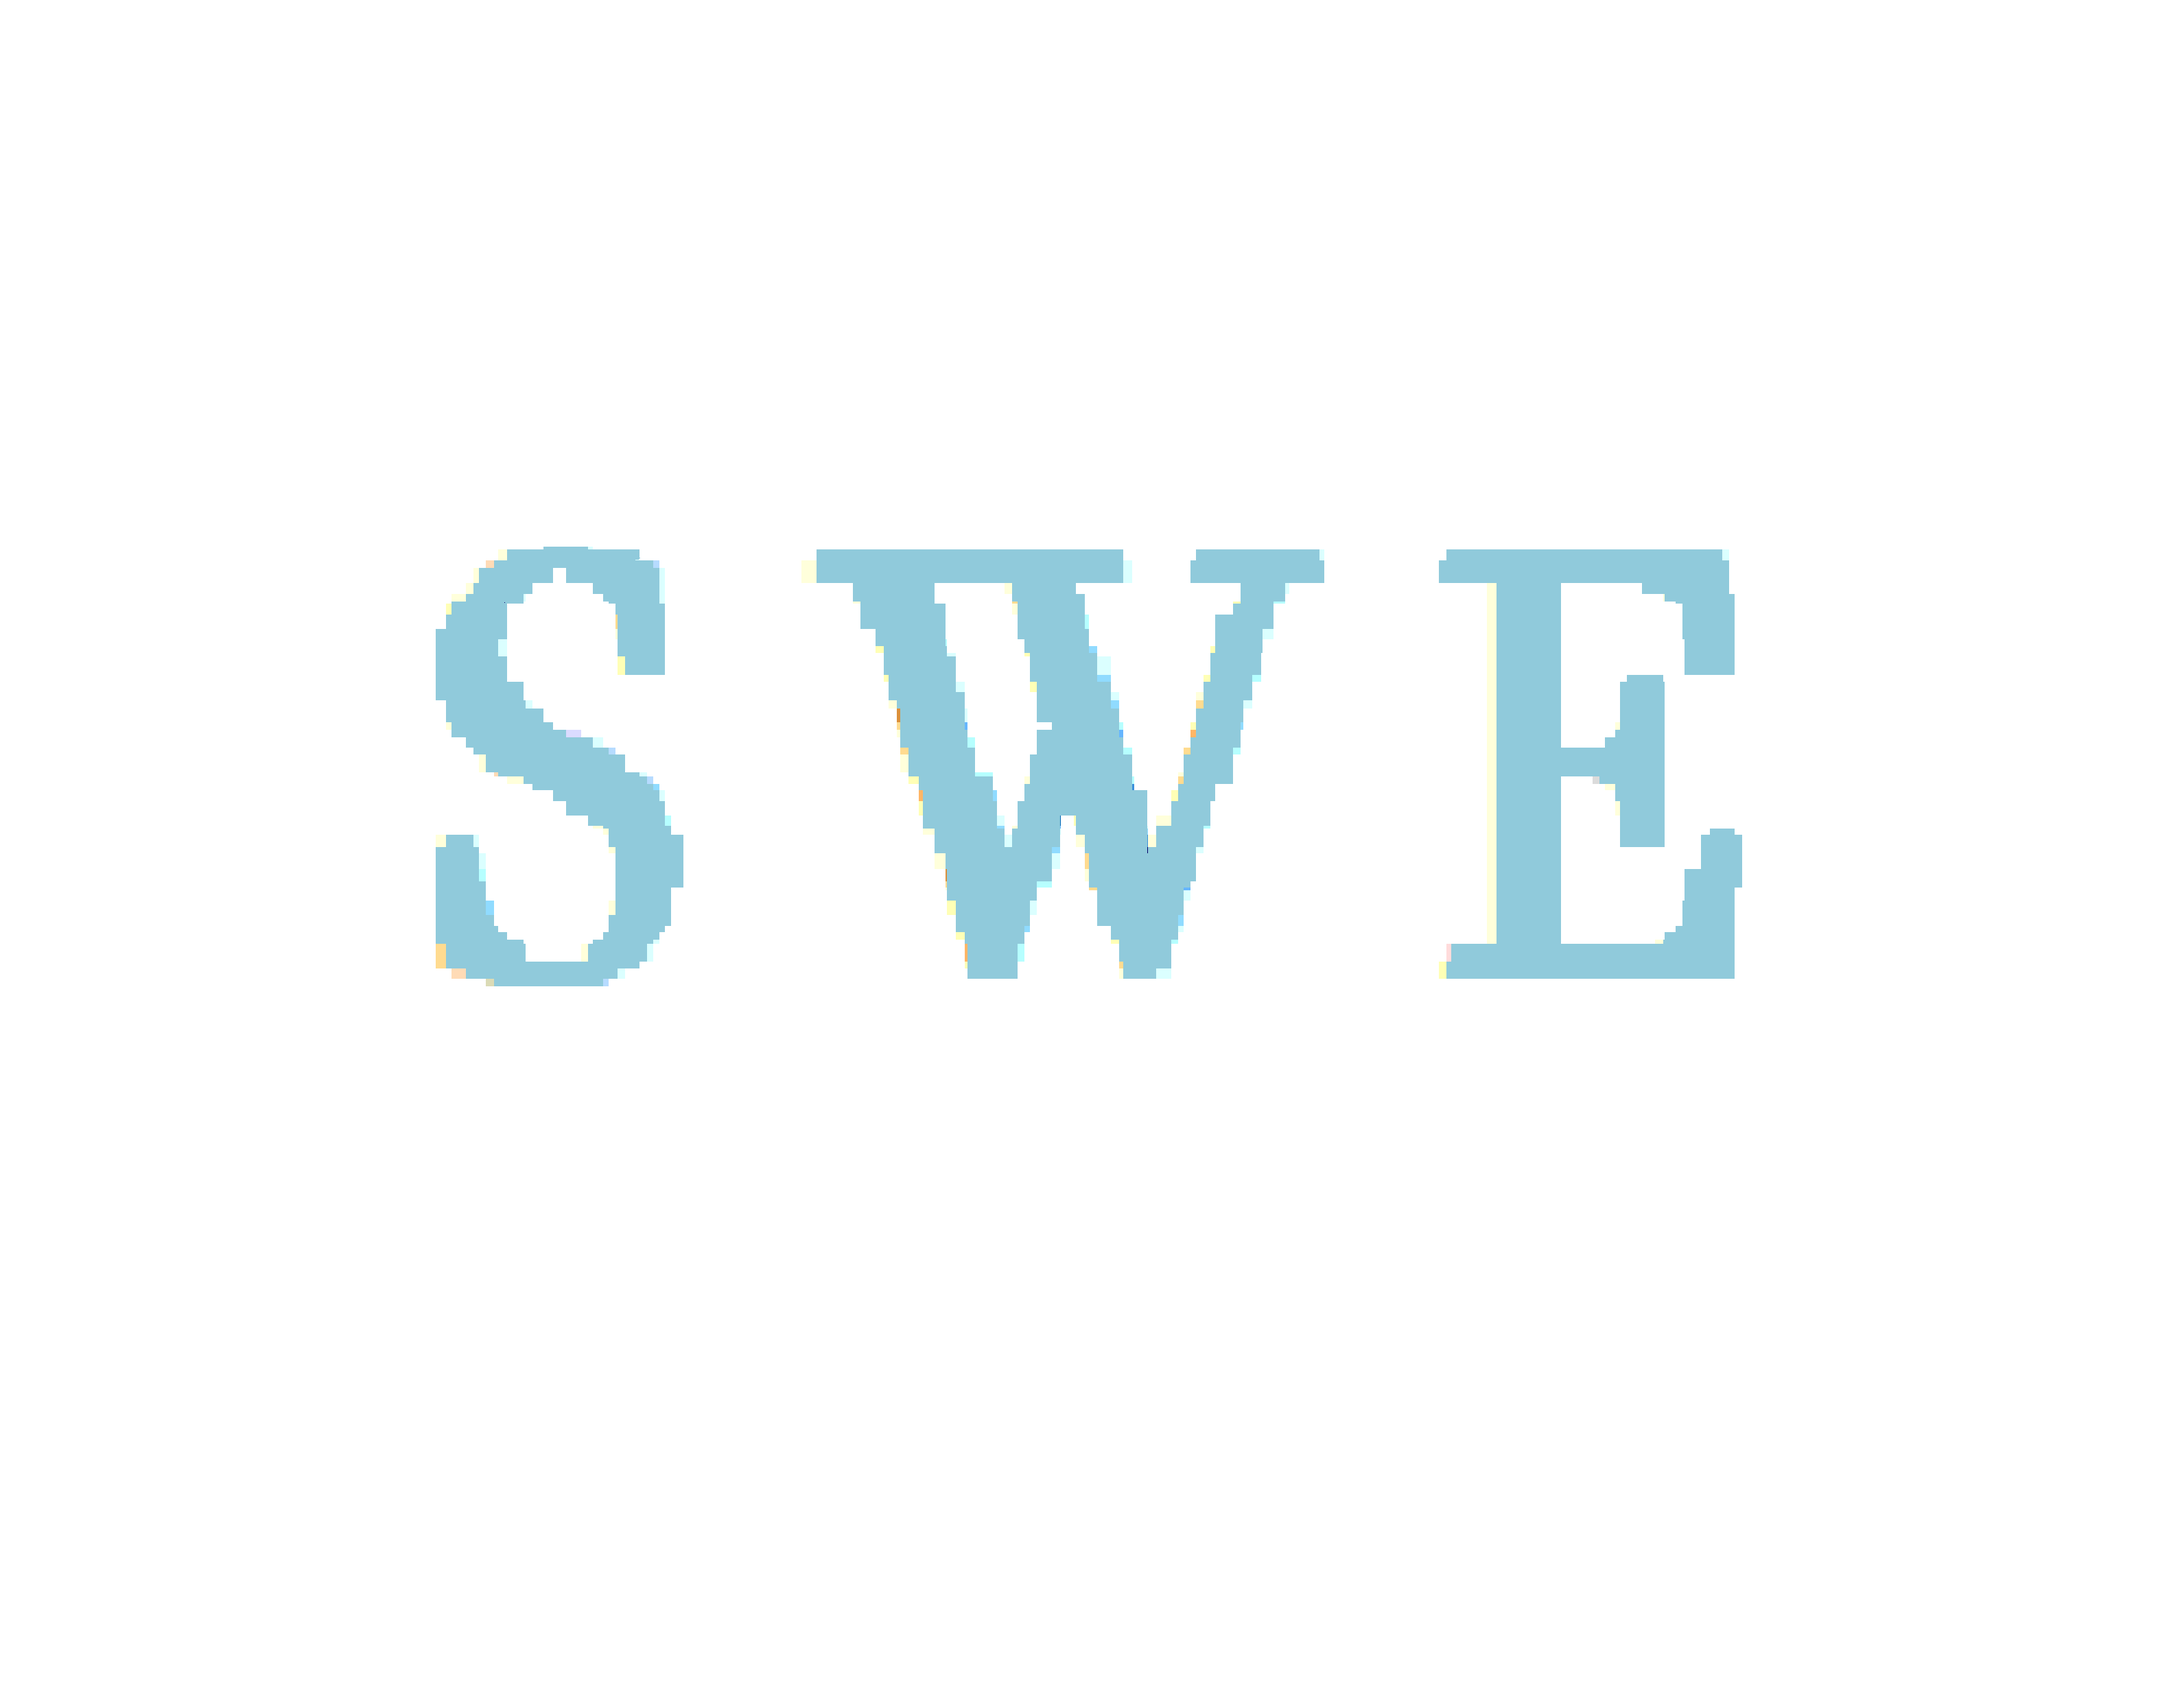
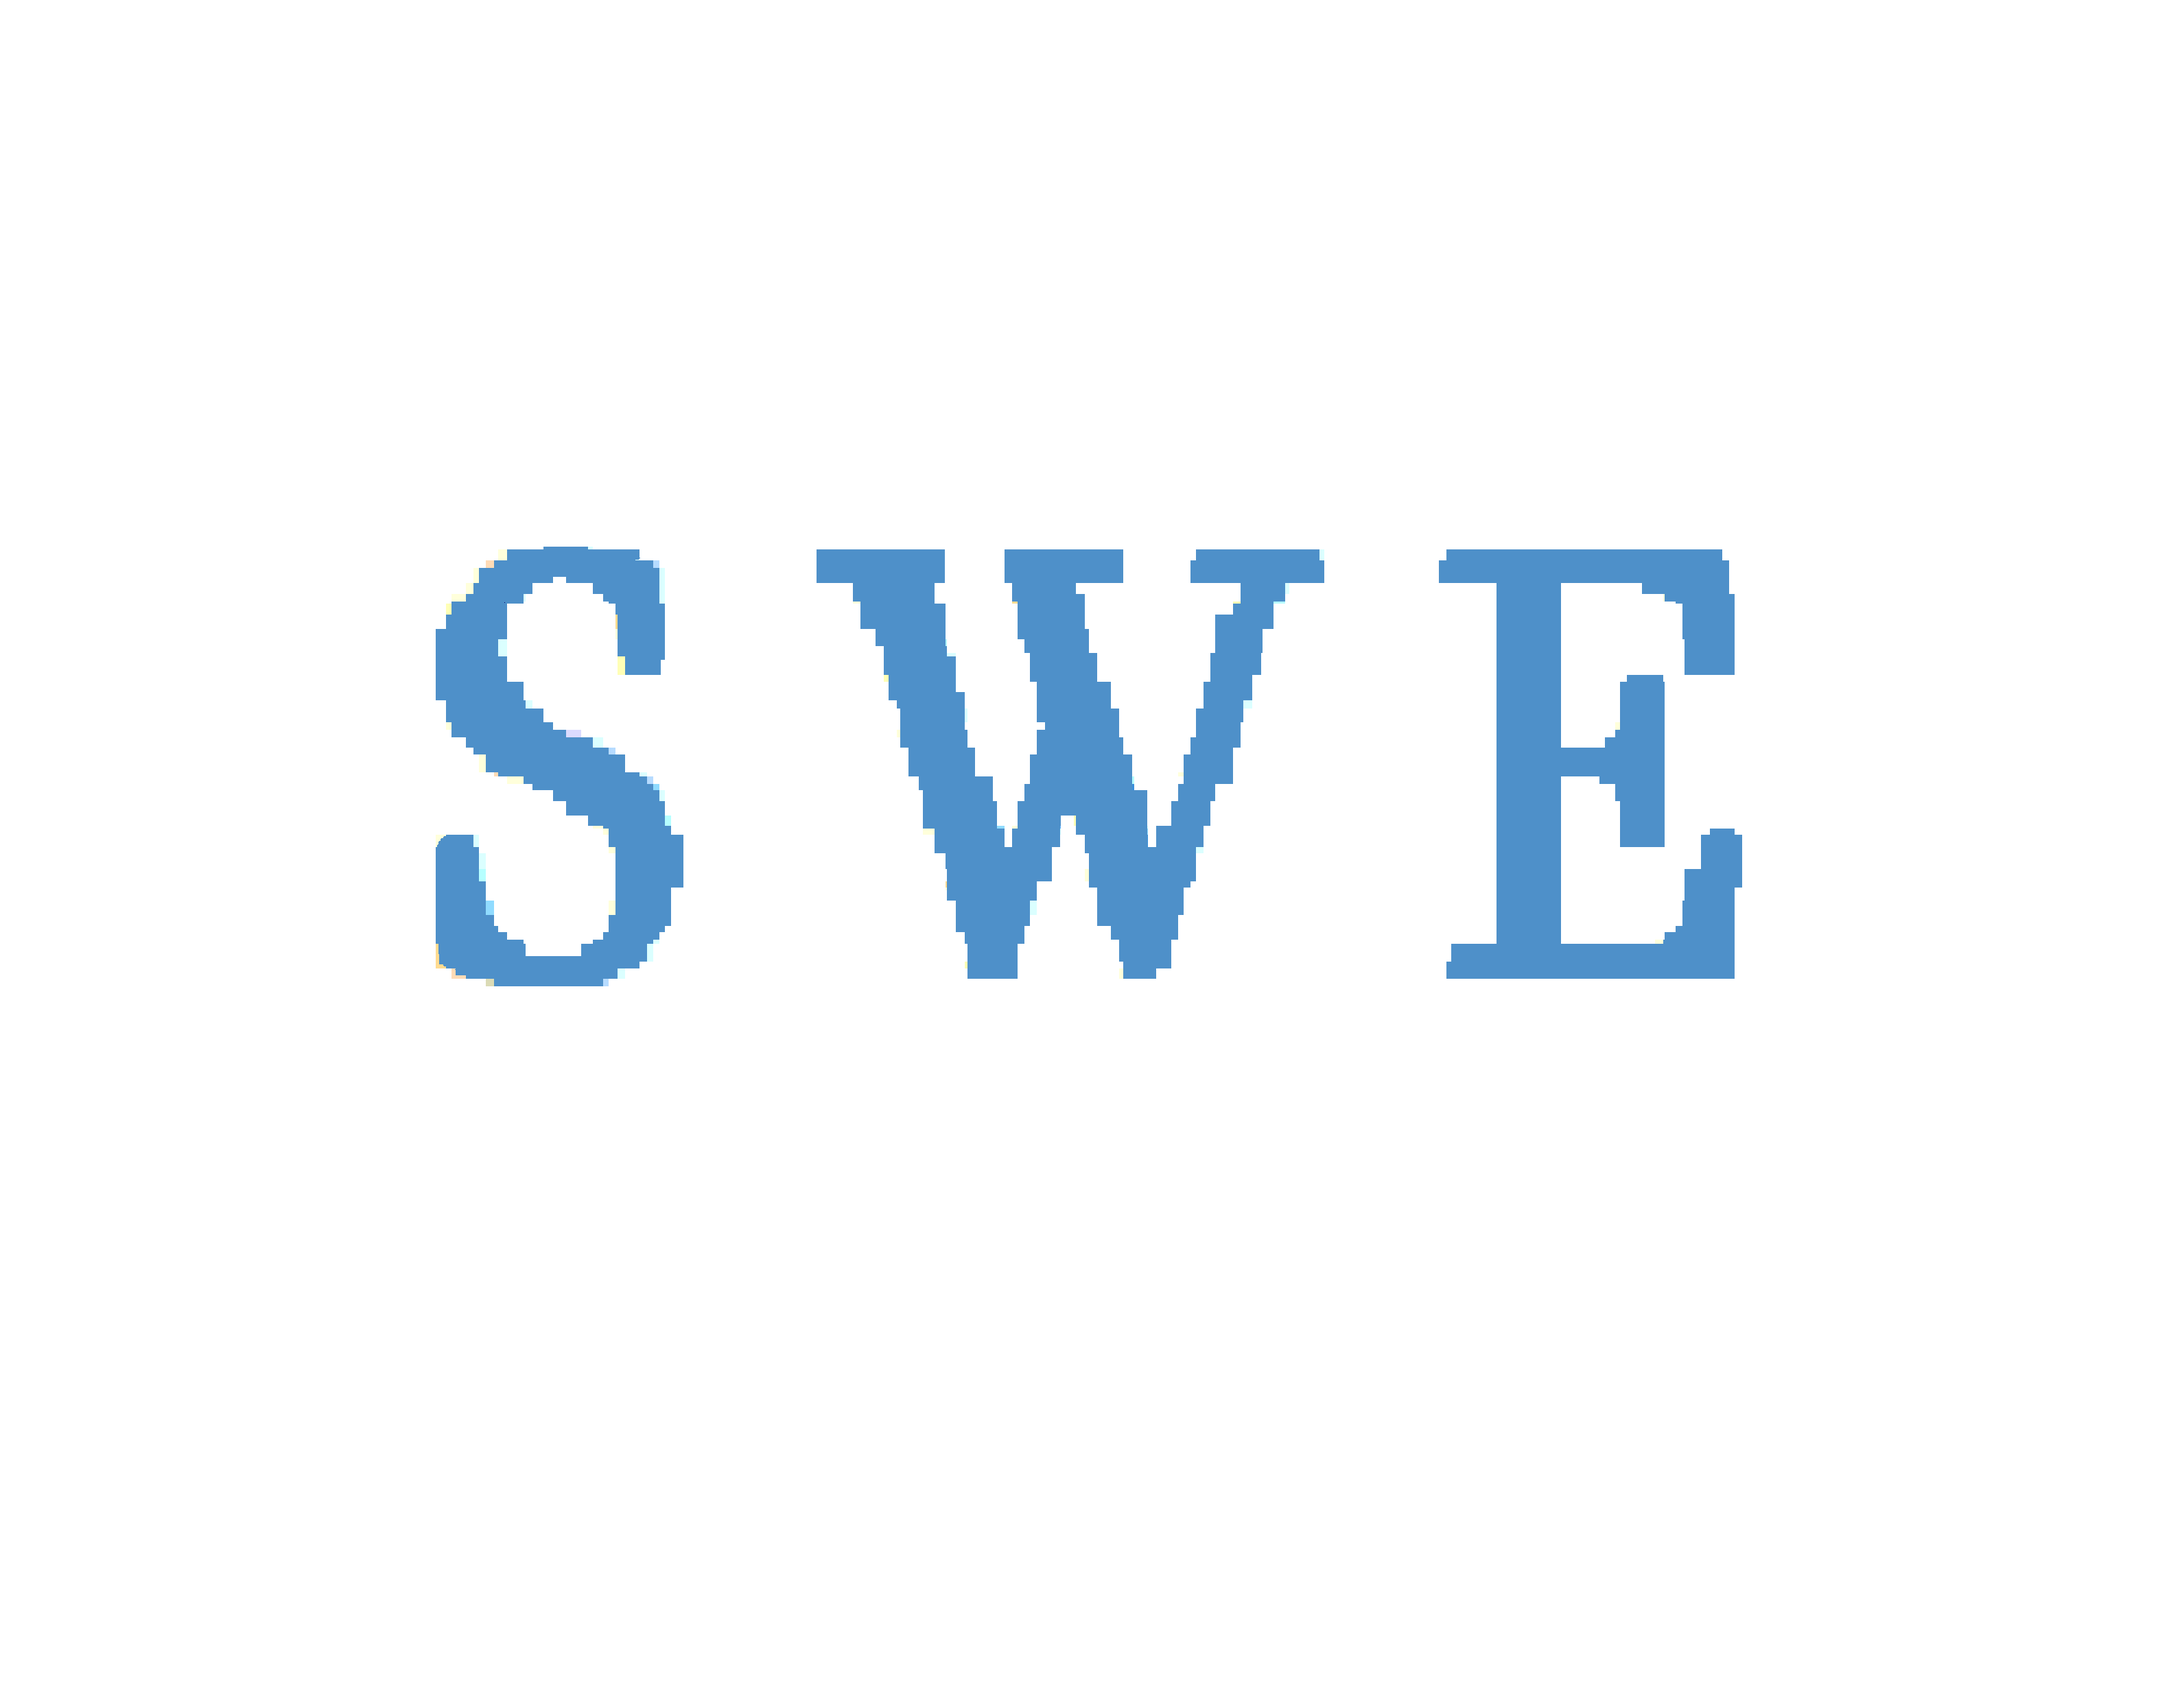
Color Changes
Up0dated the color of My initials, and the nav bar margin, now all is the same as my LinkedIn image for consistency

Changed region(s): [[0.3717, 0.3105, 0.6195, 0.5899], [0.6504, 0.3105, 0.8053, 0.5899], [0.1858, 0.3105, 0.3407, 0.5899]]

diff --git a/styles/styles.css b/styles/styles.css
@@ -13,7 +13,7 @@ body{
   font-size: 16px;
   font-family: Arial, Helvetica, sans-serif;
   --text-primary:rgb(134, 204, 228);
-  --nav-bar-color: #6EABFA;
+  --nav-bar-color: #1D75BC;
 }
 
 main{
@@ -73,7 +73,7 @@ a::after {
   bottom: -2px; /* Position the line below the anchor element */
   width:0;
   height: 2px;
-  background-color:blue; /* Line color */
+  background-color: #1D75BC; /* Line color */
   transition: width 0.7s;
 }
 a::after {
